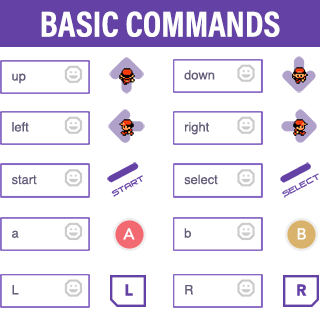
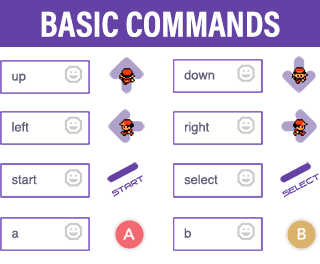
Update commands for S05R07

Changed region(s): [[0.0, 0.0303, 1.0, 1.0], [0.875, 0.8182, 1.0, 0.9697], [0.3438, 0.8182, 0.4688, 0.9697]]

diff --git a/description/active/runs/02 Basic Commands.md b/description/active/runs/02 Basic Commands.md
@@ -1,6 +1,6 @@
 Commands correspond to the buttons on the console.  Type into the chat box and press Enter to control the game.
 
-Available commands: *up, down, left, right, a, b, start, select, L, R*
+Available commands: *up, down, left, right, a, b, start, select*
 
 **Tip:** Commands are not case sensitive - trying mixing it up!
 
